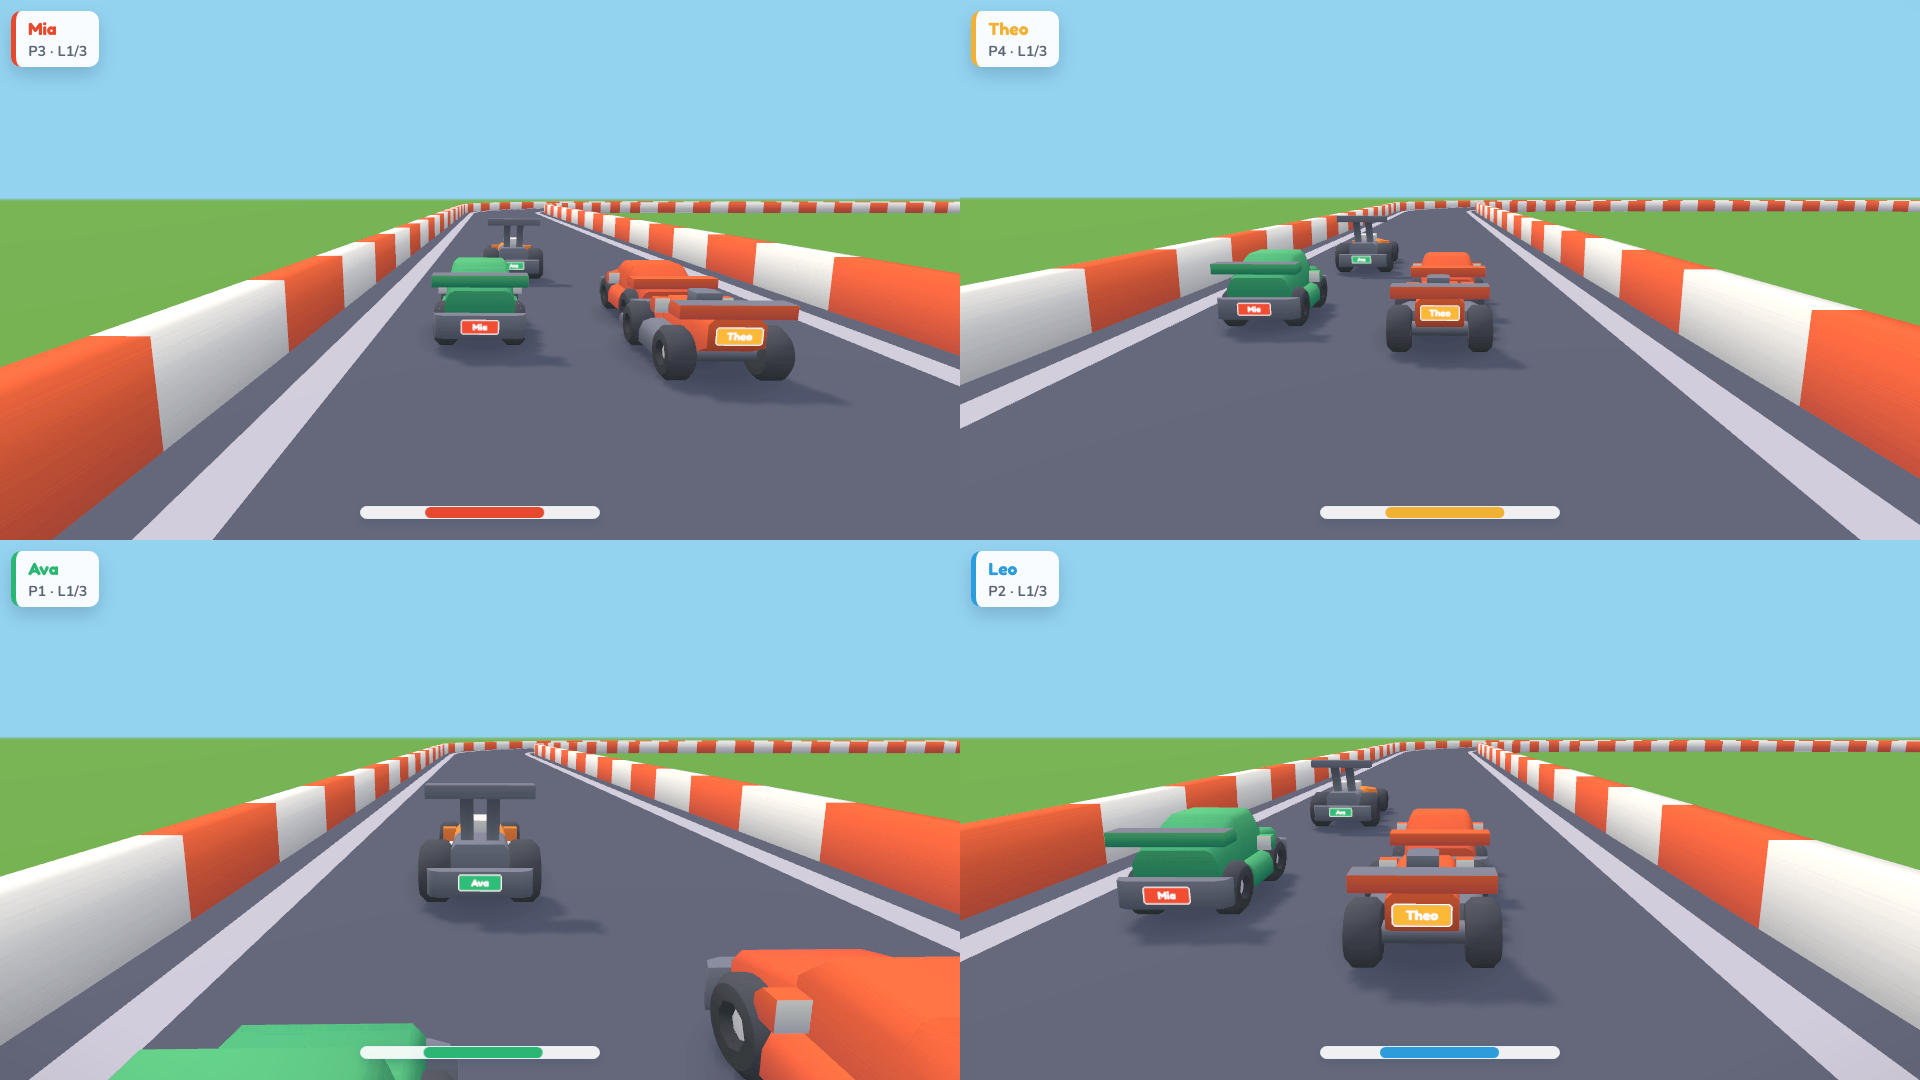
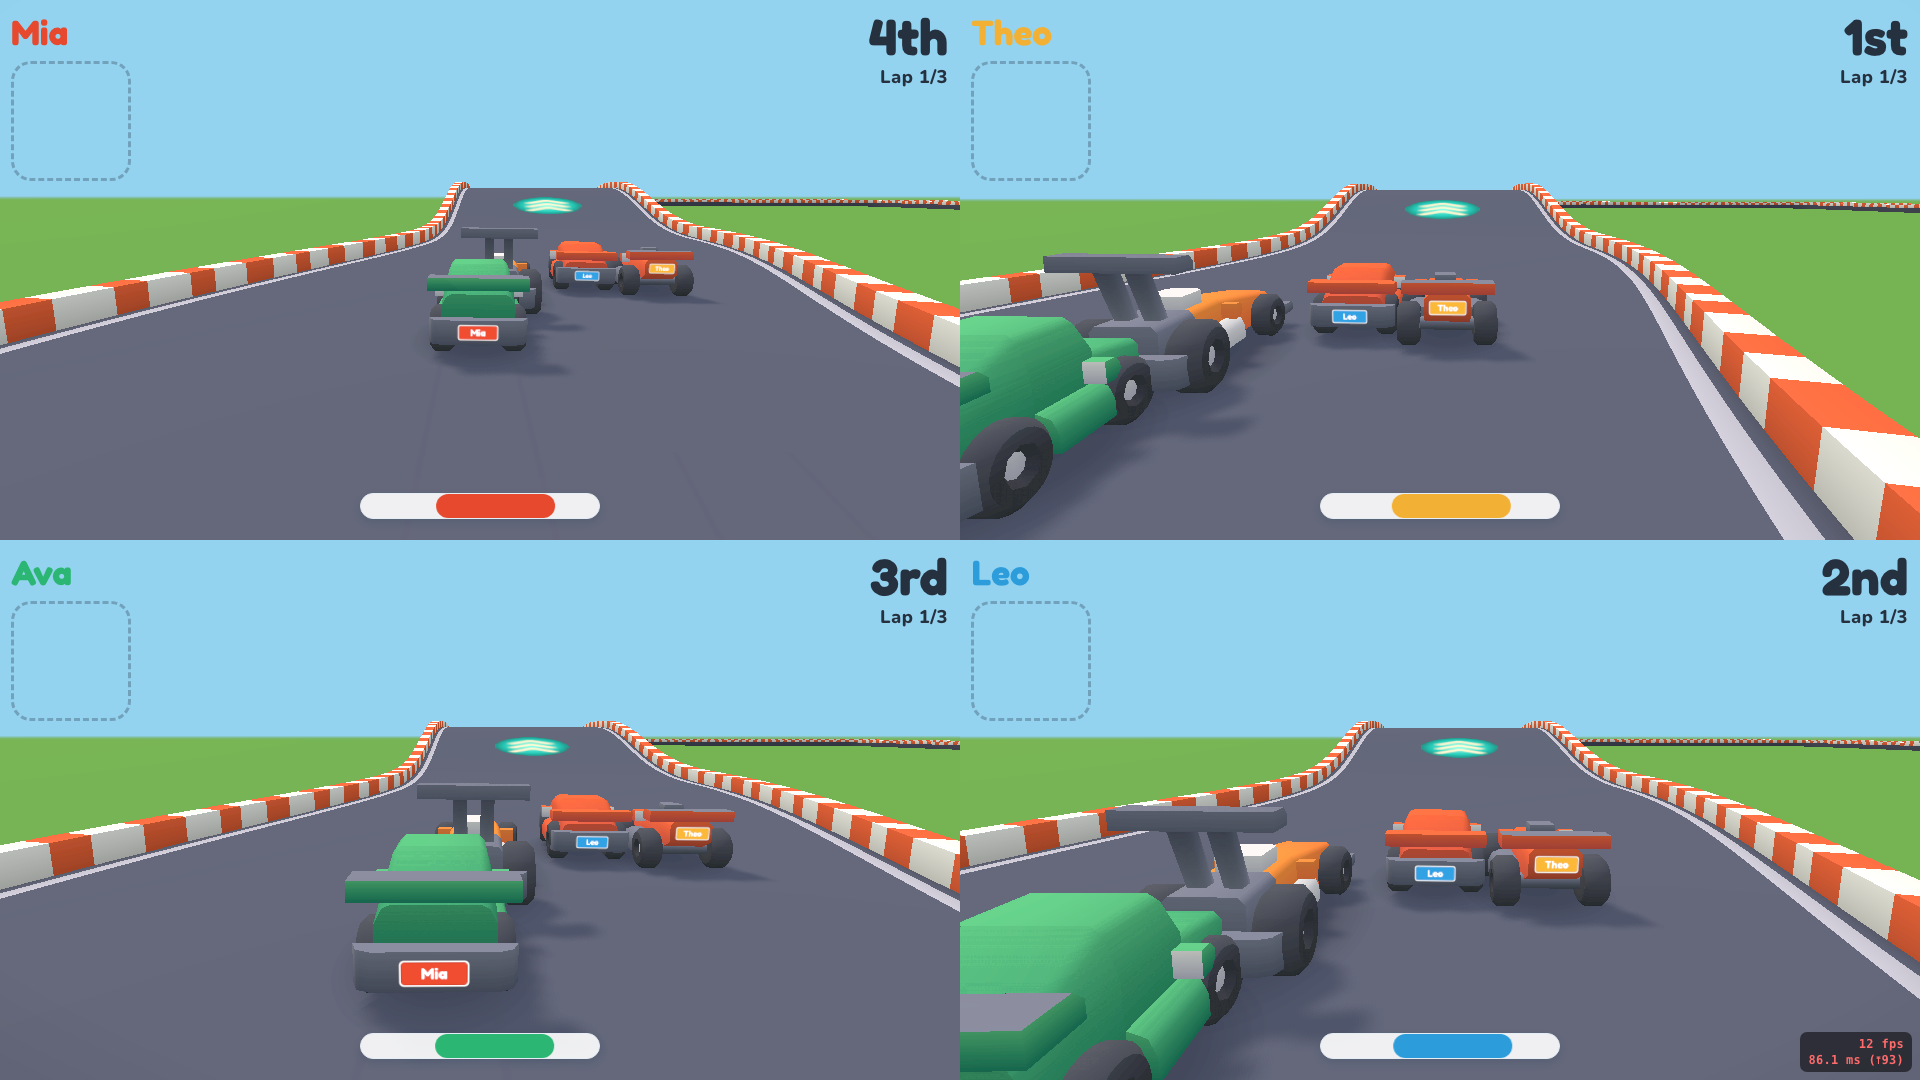
docs(readme): refresh hero shot, add live + gallery links
Re-capture the 4-player split-screen with the current unified HUD
(race positions + lap counters) and link the live deploy and UI
gallery under the hero image.

diff --git a/README.md b/README.md
@@ -4,6 +4,8 @@ Multiplayer toy-car racing where phones become tilt controllers and a shared scr
 
 ![4-player split-screen](artwork/splitscreen-4p.png)
 
+**▶ [Play it live](https://tinytrack-main.couch-games.com/)** · **[UI gallery](https://tinytrack-main.couch-games.com/gallery.html)**
+
 ## Overview
 
 Tiny Track Party is a couch party game for 1–8 players on a single shared display. One browser window is the game screen (TV, monitor, or laptop); each player joins by scanning a QR code with their phone and tilts it to steer. The display runs the authoritative 3D race simulation; the Node.js server only serves static files and a QR code API.